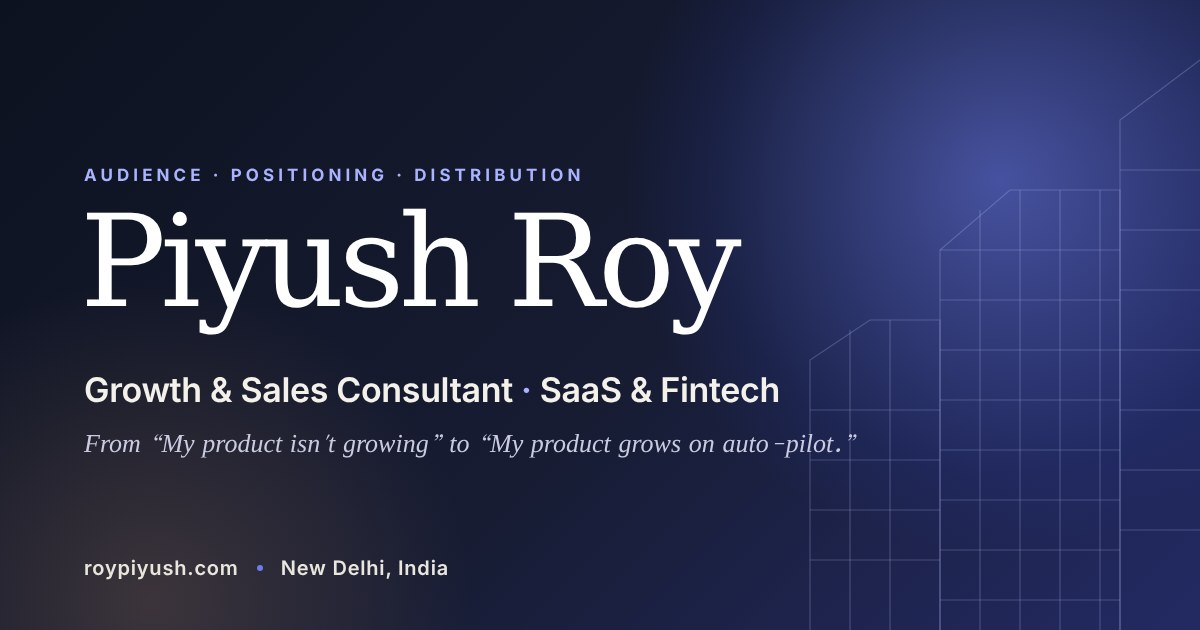
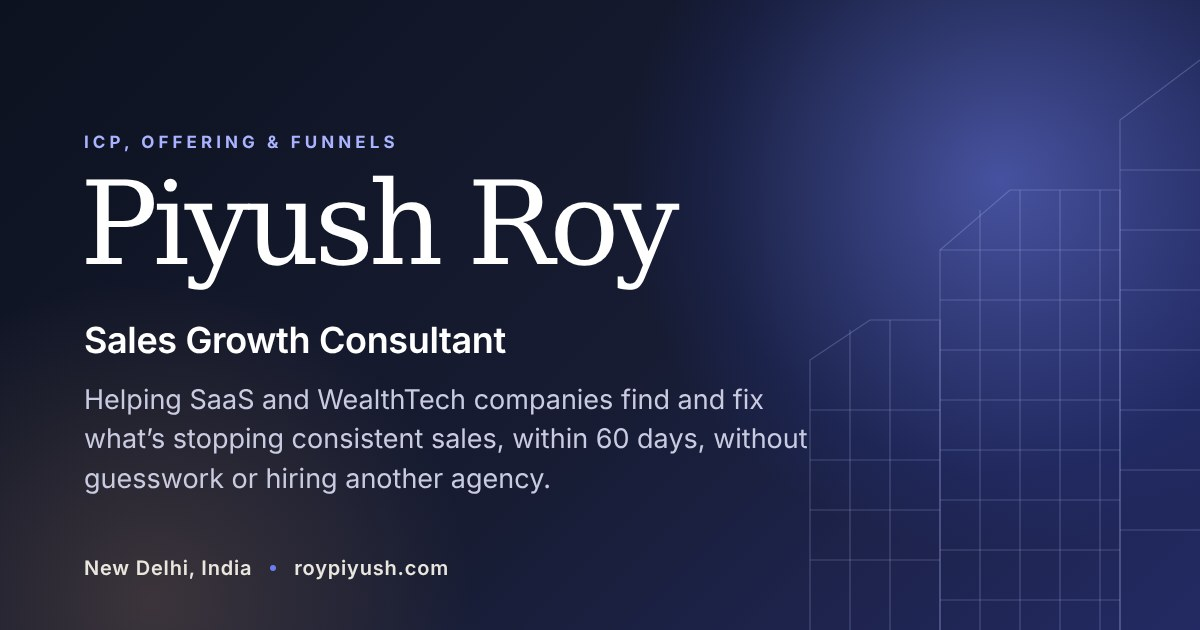
Let's Connect buttons, new blog heading and link preview

diff --git a/index.html b/index.html
@@ -25,8 +25,8 @@
   function trackEvent(name,params){ try{ gtag('event',name,params||{}); }catch(e){} }
 </script>
 <meta name="viewport" content="width=device-width, initial-scale=1" />
-<meta name="description" content="8+ years turning “My product isn't growing” into “My product grows on auto-pilot.” Audience, positioning and distribution for SaaS and fintech products — selected work and writing." />
-<title>Piyush Roy — Growth &amp; Sales Consultant for SaaS and Fintech</title>
+<meta name="description" content="Helping SaaS and WealthTech companies find and fix what’s stopping consistent sales, within 60 days, without guesswork or hiring another agency." />
+<title>Piyush Roy — Sales Growth Consultant</title>
 
 <!-- Site URL below is the current Netlify subdomain. Update this, and the
      equivalent URLs in robots.txt and sitemap.xml, once Piyush's custom
@@ -41,19 +41,19 @@
 
 <meta property="og:type" content="website" />
 <meta property="og:site_name" content="Piyush Roy" />
-<meta property="og:title" content="Piyush Roy — Growth &amp; Sales Consultant for SaaS and Fintech" />
-<meta property="og:description" content="8+ years turning “My product isn't growing” into “My product grows on auto-pilot.” Audience, positioning and distribution for SaaS and fintech products — selected work and writing." />
+<meta property="og:title" content="Piyush Roy — Sales Growth Consultant" />
+<meta property="og:description" content="Helping SaaS and WealthTech companies find and fix what’s stopping consistent sales, within 60 days, without guesswork or hiring another agency." />
 <meta property="og:image" content="https://roypiyush.com/images/og-image.jpg" />
 <meta property="og:image:secure_url" content="https://roypiyush.com/images/og-image.jpg" />
 <meta property="og:image:type" content="image/jpeg" />
 <meta property="og:image:width" content="1200" />
 <meta property="og:image:height" content="630" />
-<meta property="og:image:alt" content="Piyush Roy — Growth and Sales Consultant for SaaS and Fintech" />
+<meta property="og:image:alt" content="Piyush Roy — Sales Growth Consultant. ICP, Offering &amp; Funnels. New Delhi, India." />
 <meta property="og:locale" content="en_IN" />
 <meta property="og:url" content="https://roypiyush.com/" />
 <meta name="twitter:card" content="summary_large_image" />
-<meta name="twitter:title" content="Piyush Roy — Growth &amp; Sales Consultant for SaaS and Fintech" />
-<meta name="twitter:description" content="8+ years turning “My product isn't growing” into “My product grows on auto-pilot.” Audience, positioning and distribution for SaaS and fintech products — selected work and writing." />
+<meta name="twitter:title" content="Piyush Roy — Sales Growth Consultant" />
+<meta name="twitter:description" content="Helping SaaS and WealthTech companies find and fix what’s stopping consistent sales, within 60 days, without guesswork or hiring another agency." />
 <meta name="twitter:image" content="https://roypiyush.com/images/og-image.jpg" />
 <style>
   :root{
@@ -662,7 +662,7 @@
   </div>
 </aside>
 
-<div class="nav-wrap"><nav class="nav shell" aria-label="Primary navigation"><a class="wordmark" href="#top" id="navWordmark">Piyush Roy</a><div class="nav-links"><a href="#writing" class="nav-link">Blog</a><a class="nav-cta" href="/reachout">Reach out</a><button class="nav-toggle" id="navToggle" aria-label="Open menu" aria-expanded="false" aria-controls="mobileMenu"><span></span></button></div></nav></div>
+<div class="nav-wrap"><nav class="nav shell" aria-label="Primary navigation"><a class="wordmark" href="#top" id="navWordmark">Piyush Roy</a><div class="nav-links"><a href="#writing" class="nav-link">Blog</a><a class="nav-cta" href="/reachout">Let’s Connect</a><button class="nav-toggle" id="navToggle" aria-label="Open menu" aria-expanded="false" aria-controls="mobileMenu"><span></span></button></div></nav></div>
 
 <div class="mobile-menu" id="mobileMenu">
   <div class="mobile-menu-backdrop" id="mobileMenuBackdrop"></div>
@@ -678,7 +678,7 @@
       <a href="#writing" class="mobile-link"><span class="mobile-link-index">03</span>Blog</a>
       <a href="#about" class="mobile-link"><span class="mobile-link-index">04</span>About</a>
     </div>
-    <a class="nav-cta" href="/reachout">Reach out</a>
+    <a class="nav-cta" href="/reachout">Let’s Connect</a>
   </nav>
 </div>
 
@@ -717,7 +717,7 @@
   </div></section>
 
   <section class="section" id="writing"><div class="chapter">03</div><div class="shell">
-    <div class="section-head reveal"><div><p class="eyebrow" id="writingEyebrow">Blog</p><h2 class="display" id="writingHeadline">Writing on product, growth and the decisions between them.</h2></div><p id="writingDescription">Newest first — recent essays on fintech product strategy and the pressures that test it as platforms scale.</p></div>
+    <div class="section-head reveal"><div><p class="eyebrow" id="writingEyebrow">Blog</p><h2 class="display" id="writingHeadline">Notes on sales, funnels and the decisions that move them.</h2></div><p id="writingDescription">Newest first — recent essays on fintech product strategy and the pressures that test it as platforms scale.</p></div>
     <div class="essay-grid" id="essayGrid"></div><a class="archive" href="/blog">Show all posts →</a>
   </div></section>
 
@@ -745,7 +745,7 @@
     <div class="collab-side">
       <div class="collab-arrow">→</div>
       <p class="collab-side-text" id="collabSideText">Interested in working together? Let's build something <em>meaningful</em>.</p>
-      <a class="collab-cta" id="collabCtaLink" href="mailto:piyush@funnelprolabs.com"><span>Write to Piyush</span><span class="collab-cta__icon">→</span></a>
+      <a class="collab-cta" id="collabCtaLink" href="/reachout"><span id="collabCtaLabel">Let’s Connect</span><span class="collab-cta__icon">→</span></a>
     </div>
   </div></section>
 </main>
@@ -1155,8 +1155,8 @@
     document.querySelectorAll('#view-service .reveal').forEach(el=>{ if(!el.dataset.bound){ el.dataset.bound='1'; io.observe(el); } });
   }
 
-  const DEFAULT_TITLE='Piyush Roy — Growth & Sales Consultant for SaaS and Fintech';
-  const DEFAULT_DESC='8+ years turning “My product isn\'t growing” into “My product grows on auto-pilot.” Audience, positioning and distribution for SaaS and fintech products — selected work and writing.';
+  const DEFAULT_TITLE='Piyush Roy — Sales Growth Consultant';
+  const DEFAULT_DESC='Helping SaaS and WealthTech companies find and fix what’s stopping consistent sales, within 60 days, without guesswork or hiring another agency.';
   function setDocMeta(title,desc,path){
     document.title=title;
     const desc_=desc||DEFAULT_DESC;
@@ -1369,8 +1369,8 @@
     set('collabHeadlinePost',collab.headlinePost);
     set('collabSupport',collab.support);
     set('collabSideText',collab.sideText);
-    const collabCtaEl=document.getElementById('collabCtaLink');
-    if(collabCtaEl && collab.email) collabCtaEl.href='mailto:'+collab.email;
+    set('collabCtaLabel',collab.ctaLabel);
+    // The button always goes to the Contact (Reach out) page; the old 'email' field is no longer used.
   }
 
   fetch('/content/projects.json').then(r=>r.json()).then(data=>{
